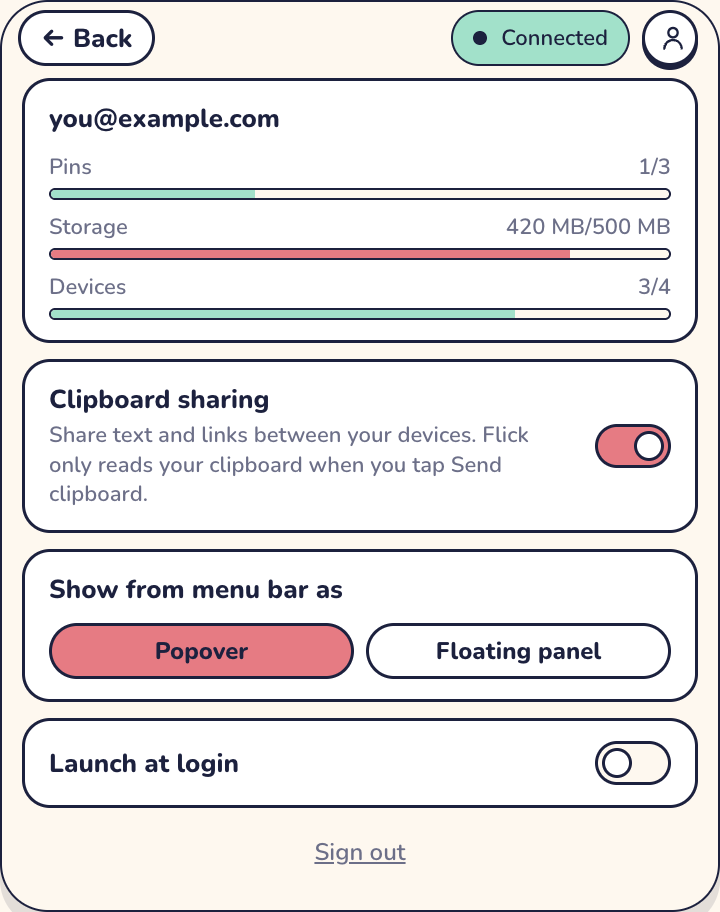
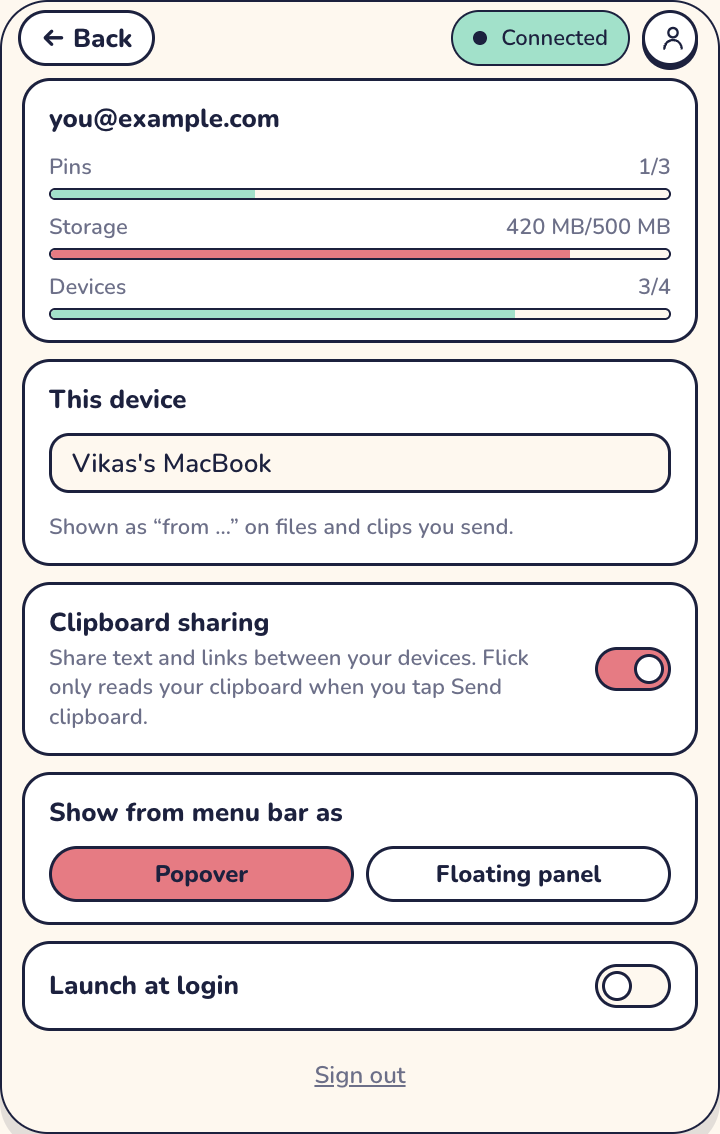
Device names everywhere, rename in the popover settings (D5)
Renaming and "from <device>" already existed in both apps (mobile
Settings → This device, desktop account menu; file cards, compact rows,
clip chips, Live Activity). Adds the rename field to the desktop
popover's Settings panel and the sender to the iOS widget rows.

Changed region(s): [[0.0, 0.0, 1.0, 0.9825], [0.9472, 0.9518, 1.0, 1.0], [0.0, 0.9518, 0.0611, 1.0]]

diff --git a/flick-desktop/src/renderer/src/components/SettingsPanel.tsx b/flick-desktop/src/renderer/src/components/SettingsPanel.tsx
@@ -1,4 +1,5 @@
 import { useEffect, useState } from "react";
+import { DEVICE_NAME_MAX } from "../hooks/useDevice";
 import type { Usage } from "../limits";
 
 interface SettingsPanelProps {
@@ -8,6 +9,9 @@ interface SettingsPanelProps {
   clipboardSharing: boolean | null;
   onClipboardSharingChange: (on: boolean) => void;
   onSignOut: () => void;
+  // This device's name, shown as "from …" on your other devices.
+  deviceName: string | null;
+  onRenameDevice: (name: string) => Promise<string | null>;
 }
 
 // Themed on/off switch: coral when on, cream when off, navy outline.
@@ -65,7 +69,18 @@ export default function SettingsPanel({
   clipboardSharing,
   onClipboardSharingChange,
   onSignOut,
+  deviceName,
+  onRenameDevice,
 }: SettingsPanelProps) {
+  const [draftName, setDraftName] = useState(deviceName ?? "");
+  const [nameMessage, setNameMessage] = useState("");
+  useEffect(() => setDraftName(deviceName ?? ""), [deviceName]);
+  async function saveName(): Promise<void> {
+    if (draftName.trim() === (deviceName ?? "")) {
+      return;
+    }
+    setNameMessage((await onRenameDevice(draftName)) ?? "Saved");
+  }
   const [app, setApp] = useState<{ showAs: "popover" | "panel"; canLaunchAtLogin: boolean; launchAtLogin: boolean } | null>(
     null,
   );
@@ -96,6 +111,34 @@ export default function SettingsPanel({
             />
           </div>
         )}
+      </section>
+
+      <section className="settings-group">
+        <label className="settings-label" htmlFor="settings-device-name">
+          This device
+        </label>
+        <input
+          id="settings-device-name"
+          className="settings-input"
+          type="text"
+          value={draftName}
+          maxLength={DEVICE_NAME_MAX}
+          placeholder="Name"
+          disabled={deviceName === null}
+          onChange={(event) => {
+            setDraftName(event.target.value);
+            setNameMessage("");
+          }}
+          onBlur={() => void saveName()}
+          onKeyDown={(event) => {
+            if (event.key === "Enter") {
+              void saveName();
+            }
+          }}
+        />
+        <p className="settings-help">
+          {nameMessage || "Shown as “from …” on files and clips you send."}
+        </p>
       </section>
 
       {clipboardSharing !== null && (

diff --git a/flick-mobile/targets/widget/HomeWidget.swift b/flick-mobile/targets/widget/HomeWidget.swift
@@ -68,7 +68,8 @@ struct ItemRow: View {
           Text(item.title)
             .font(.system(size: 13, weight: .heavy, design: .rounded))
             .lineLimit(1)
-          Text([item.kind == "file" ? item.subtitle : nil, timeLeft(item, now: now)]
+          // "2.4 MB · 23h left · from Vikas's MacBook" (sender as everywhere else).
+          Text([item.kind == "file" ? item.subtitle : nil, timeLeft(item, now: now), item.sender.isEmpty ? nil : item.sender]
             .compactMap { $0 }.joined(separator: " · "))
             .font(.system(size: 11, weight: .semibold, design: .rounded))
             .foregroundStyle(.secondary)

diff --git a/flick-desktop/src/renderer/src/styles.css b/flick-desktop/src/renderer/src/styles.css
@@ -2568,3 +2568,15 @@ input:focus-visible {
   display: flex;
   gap: 8px;
 }
+
+.settings-input {
+  min-height: 30px;
+  padding: 0 10px;
+  border: 1.5px solid var(--flick-navy);
+  border-radius: 10px;
+  background: var(--flick-cream);
+  color: var(--flick-navy);
+  font: inherit;
+  font-size: 13px;
+  font-weight: var(--flick-font-weight-semibold);
+}

diff --git a/flick-desktop/src/renderer/src/dev-preview.tsx b/flick-desktop/src/renderer/src/dev-preview.tsx
@@ -108,7 +108,7 @@ ReactDOM.createRoot(document.getElementById("root")!).render(
       params.has("pending") ? [many[0], many[1]].map((removed) => ({ id: removed.id, file: removed })) : []
     }
     deviceId={null}
-    deviceName={null}
+    deviceName="Vikas's MacBook"
     deviceNames={{}}
     onRenameDevice={async () => null}
     usage={{

diff --git a/flick-desktop/src/renderer/src/components/Widget.tsx b/flick-desktop/src/renderer/src/components/Widget.tsx
@@ -257,6 +257,8 @@ export default function Widget({
             clipboardSharing={clipboardSharing}
             onClipboardSharingChange={onClipboardSharingChange}
             onSignOut={handleSignOut}
+            deviceName={deviceName}
+            onRenameDevice={onRenameDevice}
           />
         ) : (
         <>
